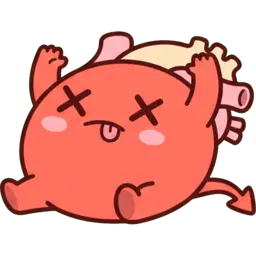
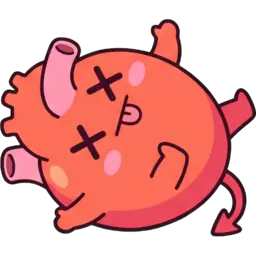
Kawaii heart redrawn facing left, with close-up and nervous poses
Six poses from the new sheet. A topic with `baddieFace` shows the
close-up in the HUD between reactions and switches to the nervous
face once you are within two cards of beating it.

Claude-Session: https://claude.ai/code/session_018X67k6zXKias5WRavKC4sA

diff --git a/js/app.js b/js/app.js
@@ -615,9 +615,10 @@
     var hudBaddie = $('#hud-baddie');
     hudBaddie.hidden = !(session.challenge && session.challenge.baddie);
     if (!hudBaddie.hidden) {
-      hudBaddie.src = baddieSrc(session.challenge, 'map');
-      /* All four poses, so the first reaction does not flash blank. */
-      BADDIE_POSES.forEach(function (p) { var im = new Image(); im.src = baddieSrc(session.challenge, p); });
+      hudBaddie.src = baddieSrc(session.challenge, baddieRest());
+      /* Every pose, so the first reaction does not flash blank. */
+      BADDIE_POSES.concat(session.challenge.baddieFace ? ['face', 'nervous'] : [])
+        .forEach(function (p) { var im = new Image(); im.src = baddieSrc(session.challenge, p); });
     }
     show('screen-session', !!session.challenge);
     updateHud();
@@ -631,6 +632,11 @@
     $('#streak-n').textContent = session.streak;
     $('#streak').classList.toggle('is-hot', session.streak >= 3);
     if (session.challenge) {
+      if (session.challenge.baddie && !reactTimer) {
+        var rest = baddieSrc(session.challenge, baddieRest());
+        var hb = $('#hud-baddie');
+        if (hb.getAttribute('src') !== rest) hb.src = rest;
+      }
       var row = $('#hearts');
       var max = global.Challenge.HEARTS;
       if (row.children.length !== max) {
@@ -1417,6 +1423,14 @@
   /* The HUD baddie answers each answer: a taunt when you miss, a flinch
      when you land one, then back to glaring. */
   var reactTimer = null;
+  /* What the HUD baddie shows between reactions: its close-up where the
+     art has one, and the nervous face once you are within two cards of
+     beating it. */
+  function baddieRest() {
+    var t = session && session.challenge;
+    if (!t || !t.baddieFace) return 'map';
+    return session.queue.length <= 2 && session.hearts > 0 ? 'nervous' : 'face';
+  }
   function baddieReact(pose) {
     var img = $('#hud-baddie');
     if (img.hidden || !session.challenge) return;
@@ -1426,7 +1440,8 @@
     img.classList.add('is-react');
     clearTimeout(reactTimer);
     reactTimer = setTimeout(function () {
-      if (session && session.challenge) img.src = baddieSrc(session.challenge, 'map');
+      reactTimer = null;
+      if (session && session.challenge) img.src = baddieSrc(session.challenge, baddieRest());
       img.classList.remove('is-react');
     }, 1100);
   }

diff --git a/index.html b/index.html
@@ -11,9 +11,9 @@
 <link rel="preconnect" href="https://fonts.googleapis.com">
 <link rel="preconnect" href="https://fonts.gstatic.com" crossorigin>
 <link href="https://fonts.googleapis.com/css2?family=Nunito:wght@600;700;800;900&display=swap" rel="stylesheet">
-<link rel="stylesheet" href="css/base.css?v=80">
-<link rel="stylesheet" href="css/themes.css?v=80">
-<link rel="stylesheet" href="css/animations.css?v=80">
+<link rel="stylesheet" href="css/base.css?v=81">
+<link rel="stylesheet" href="css/themes.css?v=81">
+<link rel="stylesheet" href="css/animations.css?v=81">
 </head>
 <body>
 
@@ -147,12 +147,12 @@
 
 </div>
 
-<script src="js/audio.js?v=80"></script>
-<script src="js/decks.js?v=80"></script>
-<script src="js/challenge.js?v=80"></script>
-<script src="js/store.js?v=80"></script>
-<script src="js/text.js?v=80"></script>
-<script src="js/modes.js?v=80"></script>
-<script src="js/app.js?v=80"></script>
+<script src="js/audio.js?v=81"></script>
+<script src="js/decks.js?v=81"></script>
+<script src="js/challenge.js?v=81"></script>
+<script src="js/store.js?v=81"></script>
+<script src="js/text.js?v=81"></script>
+<script src="js/modes.js?v=81"></script>
+<script src="js/app.js?v=81"></script>
 </body>
 </html>

diff --git a/css/base.css b/css/base.css
@@ -708,7 +708,7 @@ button { cursor: pointer; border: 0; background: none; }
 .path-node .baddie-img { width: 82px; height: 82px; object-fit: contain; display: block; }
 .path-node .baddie-img.is-map { animation: baddie-bob 1.6s ease-in-out infinite; }
 .path-step.is-beaten .path-node .baddie-img { width: 78px; height: 78px; }
-.hud-baddie { width: 42px; height: 42px; object-fit: contain; flex: 0 0 auto; }
+.hud-baddie { width: 42px; height: 42px; object-fit: contain; flex: 0 0 auto; border-radius: 12px; }
 .hud-baddie:not([hidden]) { display: block; }
 .hud-baddie.is-react { animation: streak-pop .3s ease; }
 .summary-baddie { width: 170px; height: 170px; object-fit: contain; margin-bottom: .75rem; animation: deck-in .35s cubic-bezier(.22,1,.36,1) both; }

diff --git a/tools/check.html b/tools/check.html
@@ -145,10 +145,10 @@
 
 <!-- The real deck list, the real dial maths, the real store. A check
      against a copy of the rules is a check against nothing. -->
-<script src="../js/decks.js?v=80"></script>
-<script src="../js/modes.js?v=80"></script>
-<script src="../js/store.js?v=80"></script>
-<script src="validate.js?v=80"></script>
+<script src="../js/decks.js?v=81"></script>
+<script src="../js/modes.js?v=81"></script>
+<script src="../js/store.js?v=81"></script>
+<script src="validate.js?v=81"></script>
 
 <!-- The prompt lives here as inert text so there is exactly one copy of
      it: the page renders it and the clipboard button ships it. -->

diff --git a/tools/reveals.html b/tools/reveals.html
@@ -10,7 +10,7 @@
 <link rel="preconnect" href="https://fonts.googleapis.com">
 <link rel="preconnect" href="https://fonts.gstatic.com" crossorigin>
 <link href="https://fonts.googleapis.com/css2?family=Nunito:wght@600;700;800;900&display=swap" rel="stylesheet">
-<link rel="stylesheet" href="../css/base.css?v=80">
+<link rel="stylesheet" href="../css/base.css?v=81">
 <style>
   .pv {
     position: fixed;
@@ -134,7 +134,7 @@
   </div>
 </div>
 
-<script src="../js/decks.js?v=80"></script>
+<script src="../js/decks.js?v=81"></script>
 <script>
 (function () {
   'use strict';

diff --git a/js/challenge.js b/js/challenge.js
@@ -75,6 +75,7 @@
       name: 'Endocrine',
       /* Demo of the kawaii style, on loan until Endocrine has its own. */
       baddie: 'heart-kawaii',
+      baddieFace: true,   // also has the close-up and nervous poses
       cards: [
         { type: 'number', q: 'Fasting glucose at or above which diabetes is diagnosed?', value: 126, unit: 'mg/dL',
           why: 'Or an A1c of 6.5% or more, a two-hour glucose of 200 or more on a tolerance test, or a random glucose of 200 or more with symptoms. An abnormal result without symptoms is confirmed with a second test.' },
